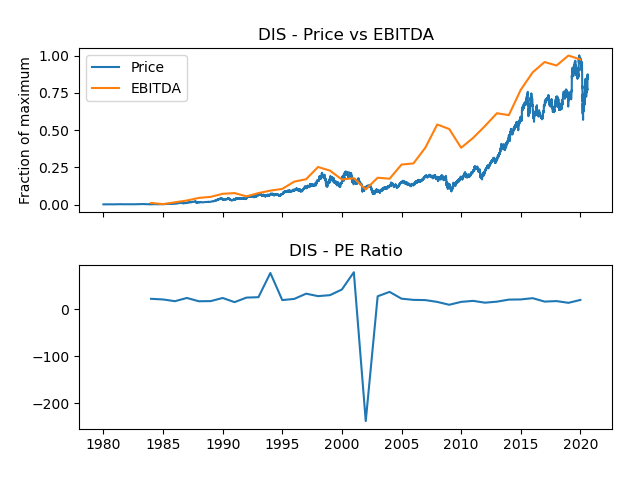
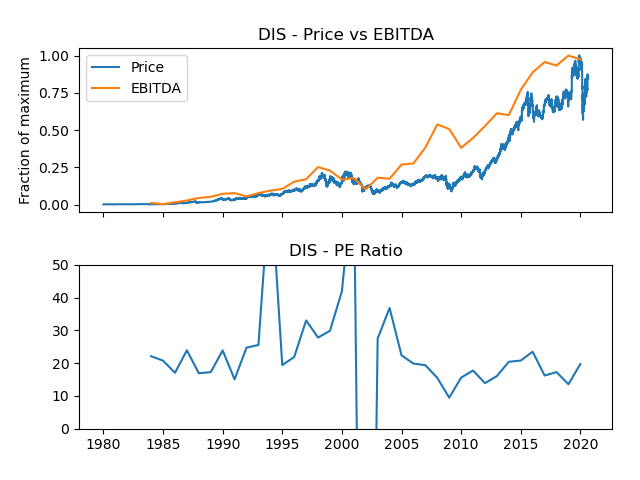
set limits to the pe ratio

diff --git a/earnings_vs_price.py b/earnings_vs_price.py
@@ -8,7 +8,7 @@ import datetime
 
 api_key = "39909968fea57578dfad64131ffbc423"
 #ticker = str(input("Ticker: "))
-ticker = "DIS"
+ticker = "V"
 end_date = "2021-01-01"
 start_date = "1980-01-01"
 
@@ -56,6 +56,7 @@ axs[0].legend()
 
 axs[1].plot(pe_ratio)
 axs[1].set_title("{} - PE Ratio".format(ticker))
+axs[1].set_ylim(0,50)
 
 fig.tight_layout(pad=2)
 
